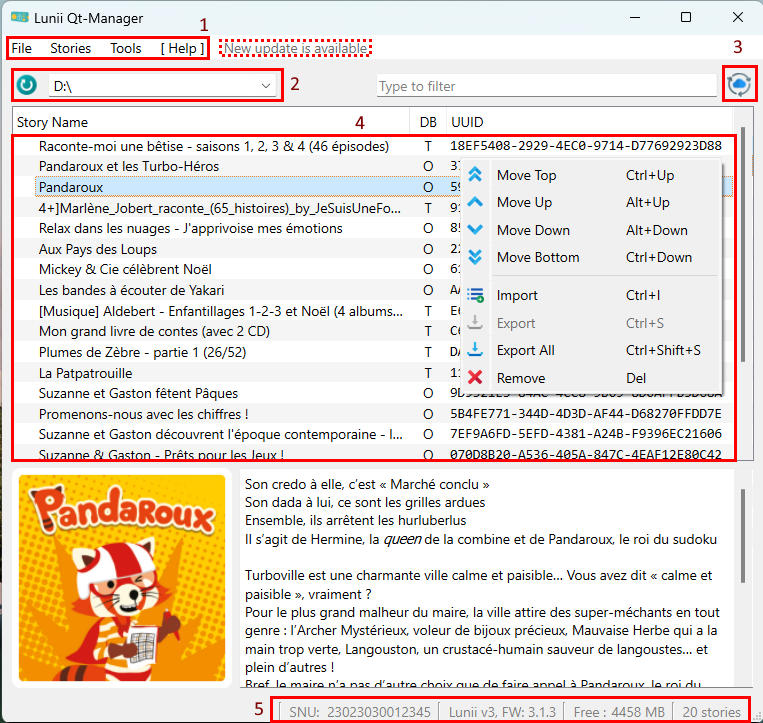
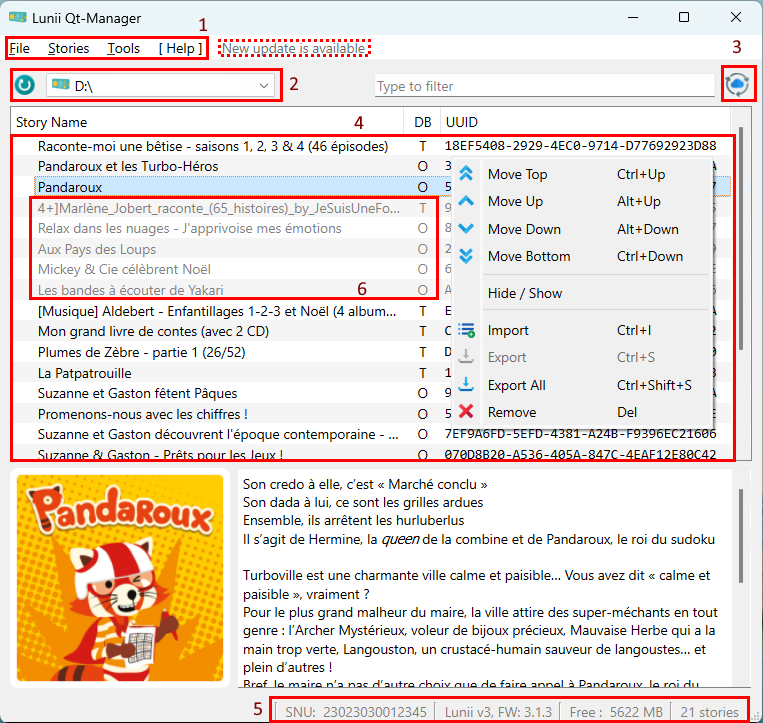
READMEs updated (pfffuuuu)

Changed region(s): [[0.0, 0.0, 1.0, 1.0], [0.211, 0.0609, 0.4823, 0.1217], [0.0, 0.9737, 0.0301, 1.0]]

diff --git a/README_FR.md b/README_FR.md
@@ -1,7 +1,7 @@
 :uk: [Readme in English](./README.md) :uk:
 
 # Lunii.QT
-#### (version obsolète, requiert une mise à jour)
+#### (peut être version obsolète)
 
 Une application Python QT pour gérer sa fabrique à histoires (fah) <u>Lunii</u> et <u>Flam</u>, avec les opérations de  **organisation** / **importation** / **exportation** / **téléchargement du firmware**   
 pour Windows / Linux / MacOs 11  
@@ -22,13 +22,19 @@ pour Windows / Linux / MacOs 11
 * [Lunii.QT](#luniiqt)
   * [Interface Utilisateur](#interface-utilisateur)
   * [Raccourcis clavier](#raccourcis-clavier)
+  * [Fonctionnalités](#fonctionnalités)
   * [Transcodage audio](#transcodage-audio)
+    * [Installation](#installation)
+    * [Vérification](#vérification)
   * [Mise à jour du firmware](#mise-à-jour-du-firmware)
     * [Guide Pratique - Lunii](#guide-pratique---lunii)
     * [Guide Pratique - Flam](#guide-pratique---flam)
   * [Formats d'archives pris en charge (Lunii)](#formats-darchives-pris-en-charge-lunii)
   * [Python ? Guide Pratique](#python--guide-pratique)
   * [Astuces](#astuces)
+    * [macOS - Authorisation de l'application](#macos---authorisation-de-lapplication)
+    * [Métadonnées des histoires non-officielles](#métadonnées-des-histoires-non-officielles)
+    * [Gestion du cache](#gestion-du-cache)
   * [Remerciements](#remerciements)
 * [Liens / Dépôts similaires](#liens--dépôts-similaires)
 <!-- TOC -->
@@ -45,10 +51,10 @@ pour Windows / Linux / MacOs 11
 
 1. La **barre de menu**. Elle vous informera lorsqu'une mise à jour de l'application est disponible  
    (il suffit d'aller dans Menu About/Update to v2.X.X)
-1. **L'emplacement de votre Lunii/Flam** lorsqu'elle est connectée.   
+2. **L'emplacement de votre Lunii/Flam** lorsqu'elle est connectée.   
    Le bouton à gauche relance la détection automatique.
-2. Actualisation de la **base de données Officielle** : Met à jour la liste des histoires et leurs descriptions depuis le Luniistore. Utilisez ce bouton lorsque certaines histoires officielles ne sont pas reconnues.
-3. La **liste de vos histoires** avec l'UUID et le type d'histoire (DB).  
+3. Actualisation de la **base de données Officielle** : Met à jour la liste des histoires et leurs descriptions depuis le Luniistore. Utilisez ce bouton lorsque certaines histoires officielles ne sont pas reconnues.
+4. La **liste de vos histoires** avec l'UUID et le type d'histoire (DB).  
    L'UUID : Un identifiant unique permettant de lier les histoires à leur dossier sur la Lunii/Flam. Les huit derniers caractères de l'UUID composent le nom du dossier de l'histoire.
 
    **DB** signifie **Base de données**. Cette application prend en charge deux bases de données différentes
@@ -56,11 +62,14 @@ pour Windows / Linux / MacOs 11
         (Toutes les métadonnées proviennent des serveurs de Lunii).
      - **T** - base de données **T**ierce, également connue sous Non officielles ou Custom  
         (Ces métadonnées ne peuvent pas être récupérées, elles sont complétées lors de l'importation de l'histoire)
-4. Dans la **barre d'état**, vous trouverez  
+5. Dans la **barre d'état**, vous trouverez  
    * Votre SNU (numéro de série),
    * La version du firmware de votre Lunii/Flam
    * L'espace disponible sur la SD
    * Le nombre d'histoires
+
+6. **Histoire cachées** (les entrées grisées dans la liste) sont toujours physiquement présente dans l'appareil, mais ne seront pas visible par l'application Luniistore. De la sorte, les histoires non officielles ne seront pas supprimées lors de la synchronisation. N'oubliez pas de bien "cacher" vos histoires avant de cliquer sur "synchroniser" !
+
 
 ## Raccourcis clavier
 
@@ -81,6 +90,24 @@ pour Windows / Linux / MacOs 11
 | `F1`           | À propos de l'application                             |
 | `F5`           | Réactualise les appareils                             |
 
+## Fonctionnalités
+* Détection automatique des **Mise à jour**
+* **Import** / **Export** / **Suppression** des histoires
+* Support des archives au format **STUdio**
+* **Réorganisez** vos histoires dans votre ordre préféré
+* **Cachez** les histoires  
+  Dans le but de ne pas subir une suppression forcée des histoires non officielles durant la synchronisation avec l'application Luniistore, vous pouvez désormais "cacher" temporairement certaines histoires  
+  (tous les fichiers sont conservés sur l'appareil)
+* **Histoires perdues**  
+  Trois nouveaux outils sont proposés pour gérer vos histoires perdues.   
+  (souvent suite à un crash d'une autre application 😜)   
+ ![](./res/screenshot_lost.png)
+  Vous pouvez :
+  * les lister
+  * les récupérer (si elles sont saines)
+  * les supprimer (**attention, les fichiers seront supprimés**)  
+* **Récupération du Firmware** pour votre appareil (cf. [cette section](#mise-à-jour-du-firmware))
+  
 ## Transcodage audio
 Certaines histoires tierces utilisent des fichiers non MP3. Ils ne peuvent donc pas être installés tels quels sur Lunii. Cela nécessite une étape de **transcodage**. Ce processus supplémentaire est réalisé à l'aide de l'outil **FFMPEG** disponible [ici](https://github.com/eugeneware/ffmpeg-static/releases/latest )  
  
@@ -301,7 +328,25 @@ $ build/exe.win-amd64/lunii-qt
 
 ## Astuces
 
-### Métadonnées des histoires tierces
+### macOS - Authorisation de l'application
+1. Double cliquez sur le fichier `lunii-qt`.
+2. Vous devez voir apparaître le message d'erreur suivant :     
+![](./res/macos_install_1.png)  
+  Cliquez sur "**OK**"
+3. Allez dans **Préférences du système** > **Sécurité et confidentialité** et cliquez sur l'onglet **Général**.  
+![](./res/macos_install_2.png)
+4. En bas de la fenêtre, vous trouverez un message indiquant que  `lunii-qt` est bloqué. Cliquez sur "**Ouvrir quand même**".   
+   Si vous ne voyez pas ce message sur l'onglet Général, double cliquez de nouveau sur `lunii-qt`.  
+   **NOTE :** Il est possible que vous deviez en premier cliquer sur le bouton "**unlock**" puis entrer votre nom d'utilisateur / mot de passe pour pouvoir cliquer sur "**Ouvrir quand même**".
+5. Une nouvelle popup apparait       
+![](./res/macos_install_3.png)  
+Cliquez sur "**Ouvrir**".   
+Si vous n'avez pas eu cette popup, retournez juste double cliquer sur le fichier.
+1. Pour finir, un dernier message vous informera de la sorte       
+![](./res/macos_install_4.png)  
+Cliquez sur "**Ouvrir**", et vous n'aurez plus ces avertissement à l'avenir. 
+
+### Métadonnées des histoires non-officielles
 Lors de l'utilisation de cette application, vous allez peut-être constater des hisoires marquées `Unknown story (maybe a User created story)...`. Il s'agit certainement d'une histoire tierce qui a été chargé par une autre application. Lunii.QT n'a donc pas connaissance des métadonnées associées (Titre, Description, Image).  
 Il est possible de pallier à ce problème en glissant déposant l'archive de l'histoire dans l'application, comme pour la charger. Cette dernière étant déjà présente, Lunii.Qt ne va faire qu'**analyser les métadonnées** et les ajouter dans la base interne, en prenant soin de **ne pas recharger** l'histoire.
 

diff --git a/README.md b/README.md
@@ -1,7 +1,7 @@
 :fr: [README en français](README_FR.md) :fr:
 
 # Lunii.QT
-A Python QT app to manage <u>Lunii</u> and <u>Flam</u> Storytellers, including **reorder** / **import** / **export** / **firmware download**   
+A Python QT app to manage <u>Lunii</u> and <u>Flam</u> Storytellers, including **reorder** / **import** / **export** / **hide** / **firmware download**   
 for Windows / Linux / macOS  
 (compatible with STUdio archive, **with** transcoding)
 
@@ -20,6 +20,7 @@ for Windows / Linux / macOS
 * [Lunii.QT](#luniiqt)
   * [User Interface](#user-interface)
   * [Shortcuts](#shortcuts)
+  * [Features](#features)
   * [Audio Transcoding](#audio-transcoding)
     * [Installation](#installation)
     * [Checking](#checking-)
@@ -71,6 +72,8 @@ for Windows / Linux / macOS
    * the available space  
    * the number of stories it contains
 
+6. **Hidden stories** (greyed items in the list) are still stored on the device, but won't be visible by Luniistore app. That will avoid getting third party stories to be removed during synchronization. Just remember to hide them before hitting sync button !
+
 ## Shortcuts
 
 | Keys           | Actions                          |
@@ -89,6 +92,22 @@ for Windows / Linux / macOS
 | `Ctrl+L`       | Open debug log window            |
 | `F1`           | About the app                    |
 | `F5`           | Refresh devices                  |
+
+## Features
+* Automatic **Update** detection
+* **Import** / **Export** / **Remove** stories
+* Support **STUdio** archive formats
+* **Reorganize** the stories in the order you want
+* **Hide** stories  
+  In order to avoid stories to get removed by Luniistore PC Synchronization, you can temporary hide them (all files ares kept on device), sync, and revert hide.
+* **Lost Stories**  
+  Three tools are offered to manage "crashed" stories on your device.  
+ ![](./res/screenshot_lost.png)
+  You can :
+  * List them
+  * Recover them (if they are complete)
+  * Remove them (**be careful, files will be deleted**)  
+* **Get Firmware**  for your device (refer [this section](#firmware-upgrade))
 
 ## Audio Transcoding
 Some third-party stories are using non MP3 files. Thus they can't be installed as it is on Lunii. It requires a **transcoding** step. This extra process is done using **FFMPEG** tool ( [https://ffmpeg.org/download.html](https://ffmpeg.org/download.html) )
